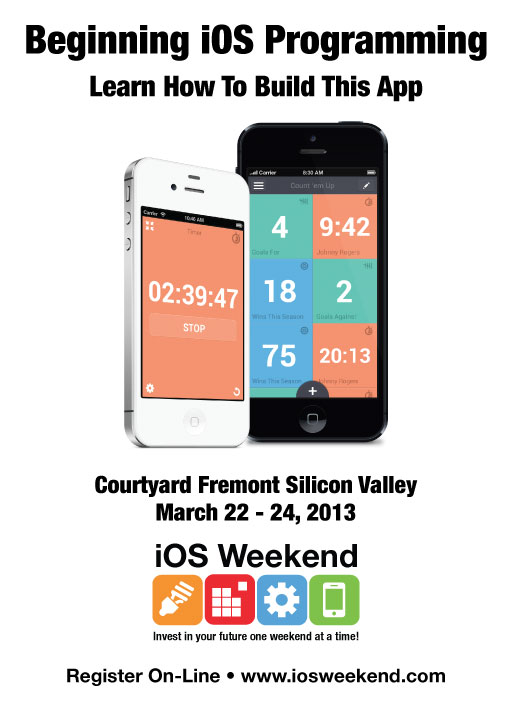
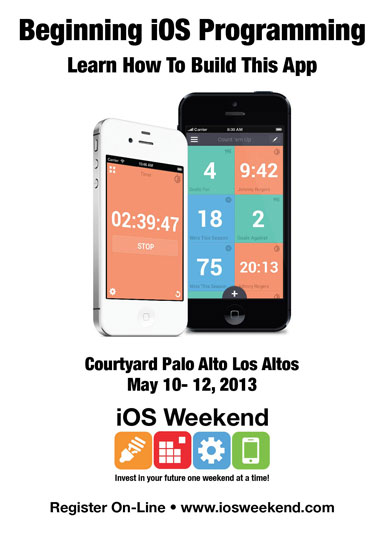
Site updated at 2013-03-25 18:30:27 UTC

diff --git a/index.html b/index.html
@@ -141,7 +141,8 @@
             <!-- Jumbotron -->
             <div class="jumbotron">
                 <h1>Beginning iOS Programming</h1>
-                <p class="lead">Courtyard Fremont Silicon Valley &bullet; March 22 - 24, 2013</p>
+                <p class="lead">Courtyard Palo Alto Los Altos &bullet; May 10 - 12, 2013</p>
+                <p class="lead">Space is Limited</p>
                 <a class="btn btn-large btn-success" href="#register">Register Today</a>
             </div>
 
@@ -299,14 +300,14 @@
 
             <div class="row-fluid">
                 <div class="span4">
-                    <h4>Friday, March 22, 2013 <br/> 1:00 P.M. - 5:30 P.M.</h4>
+                    <h4>Friday, May 10, 2013 <br/> 1:00 P.M. - 5:30 P.M.</h4>
                     <ul>
                         <li>A mix of lecture and hands-on exercises.</li>
                         <li>One 15 minute coffee break, refreshments provided.</li>
                     </ul>
                 </div>
                 <div class="span4">
-                    <h4>Saturday, March 23, 2013 <br/> 9:00 A.M. - 5:30 P.M.</h4>
+                    <h4>Saturday, May 11, 2013 <br/> 9:00 A.M. - 5:30 P.M.</h4>
                     <ul>
                         <li>A mix of lecture and hands-on exercises.</li>
                         <li>Morning and afternoon coffee breaks, refreshments provided.</li>
@@ -314,7 +315,7 @@
                     </ul>
                 </div>
                 <div class="span4">
-                    <h4>Sunday, March 24, 2013 <br/> 9:00 A.M. - 4:30 P.M.</h4>
+                    <h4>Sunday, May 12, 2013 <br/> 9:00 A.M. - 4:30 P.M.</h4>
                     <ul>
                         <li>A mix of lecture and hands-on exercises.</li>
                         <li>Morning and afternoon coffee breaks, refreshments provided.</li>
@@ -378,25 +379,27 @@
           <hr>
 
             <!-- Jumbotron -->
+            <!--
             <div id="register" class="jumbotron">
-                <a class="btn btn-large btn-success" href="http://www.eventbrite.com/event/5164111998?ref=ebtn">Register Today</a>
-                <p class="lead" style="padding-top: 10px;">Courtyard Fremont Silicon Valley &bullet; March 22 - 24, 2013</p>
+                <a class="btn btn-large btn-success" href="http://www.eventbrite.com/event/5998380317?ref=ebtn">Register Today</a>
+                <p class="lead" style="padding-top: 10px;">Courtyard Palo Alto Los Altos &bullet; May 10 - 12, 2013</p>
             </div>
+            -->
 
-        <div style="width:100%; height=400px; text-align:left;" >
-            <iframe  src="http://www.eventbrite.com/tickets-external?eid=5164111998&ref=etckt&v=2" frameborder="0" height="325" width="100%" vspace="0" hspace="0" marginheight="5" marginwidth="5" scrolling="auto" allowtransparency="true">
+        <div id="register" style="width:100%; height=400px; text-align:left;" >
+            <iframe  src="http://www.eventbrite.com/tickets-external?eid=5998380317&ref=etckt&v=2" frameborder="0" height="325" width="100%" vspace="0" hspace="0" marginheight="5" marginwidth="5" scrolling="auto" allowtransparency="true">
             </iframe>
             <div style="font-family:Helvetica, Arial; font-size:10px; padding:5px 0 5px; margin:2px; width:100%; text-align:left;" >
                 <a style="color:#ddd; text-decoration:none;" target="_blank" href="http://www.eventbrite.com/r/etckt">Event management</a>
                 <span style="color:#ddd;"> for </span>
                 <a style="color:#ddd; text-decoration:none;" target="_blank" href="http://fremont-iosweekend.eventbrite.com?ref=etckt">
-                    Fremont iOS Weekend - Learn to build iPhone and iPad Apps
+                    Beginning iOS Programming Course - iOS Weekend - Xcode, iPhone, Objective-C
                 </a> 
                 <span style="color:#ddd;">powered by</span> <a style="color:#ddd; text-decoration:none;" target="_blank" href="http://www.eventbrite.com?ref=etckt">Eventbrite</a>
             </div>
         </div>
 
-          <hr>
+        <hr>
 
         <div class="row-fluid footer">
             <div class="span4">

diff --git a/press.html b/press.html
@@ -149,7 +149,7 @@
                 <div class="span3"></div>
                 <div class="span6">
                     <div class="thumbnail" style="align: center;">
-                        <img src="/images/iOS-Weekend-Flyer.jpg" alt="">
+                        <img src="/images/ios-weekend-flyer.jpg" alt="">
                     </div>
                 </div>
                 <div class="span3"></div>
